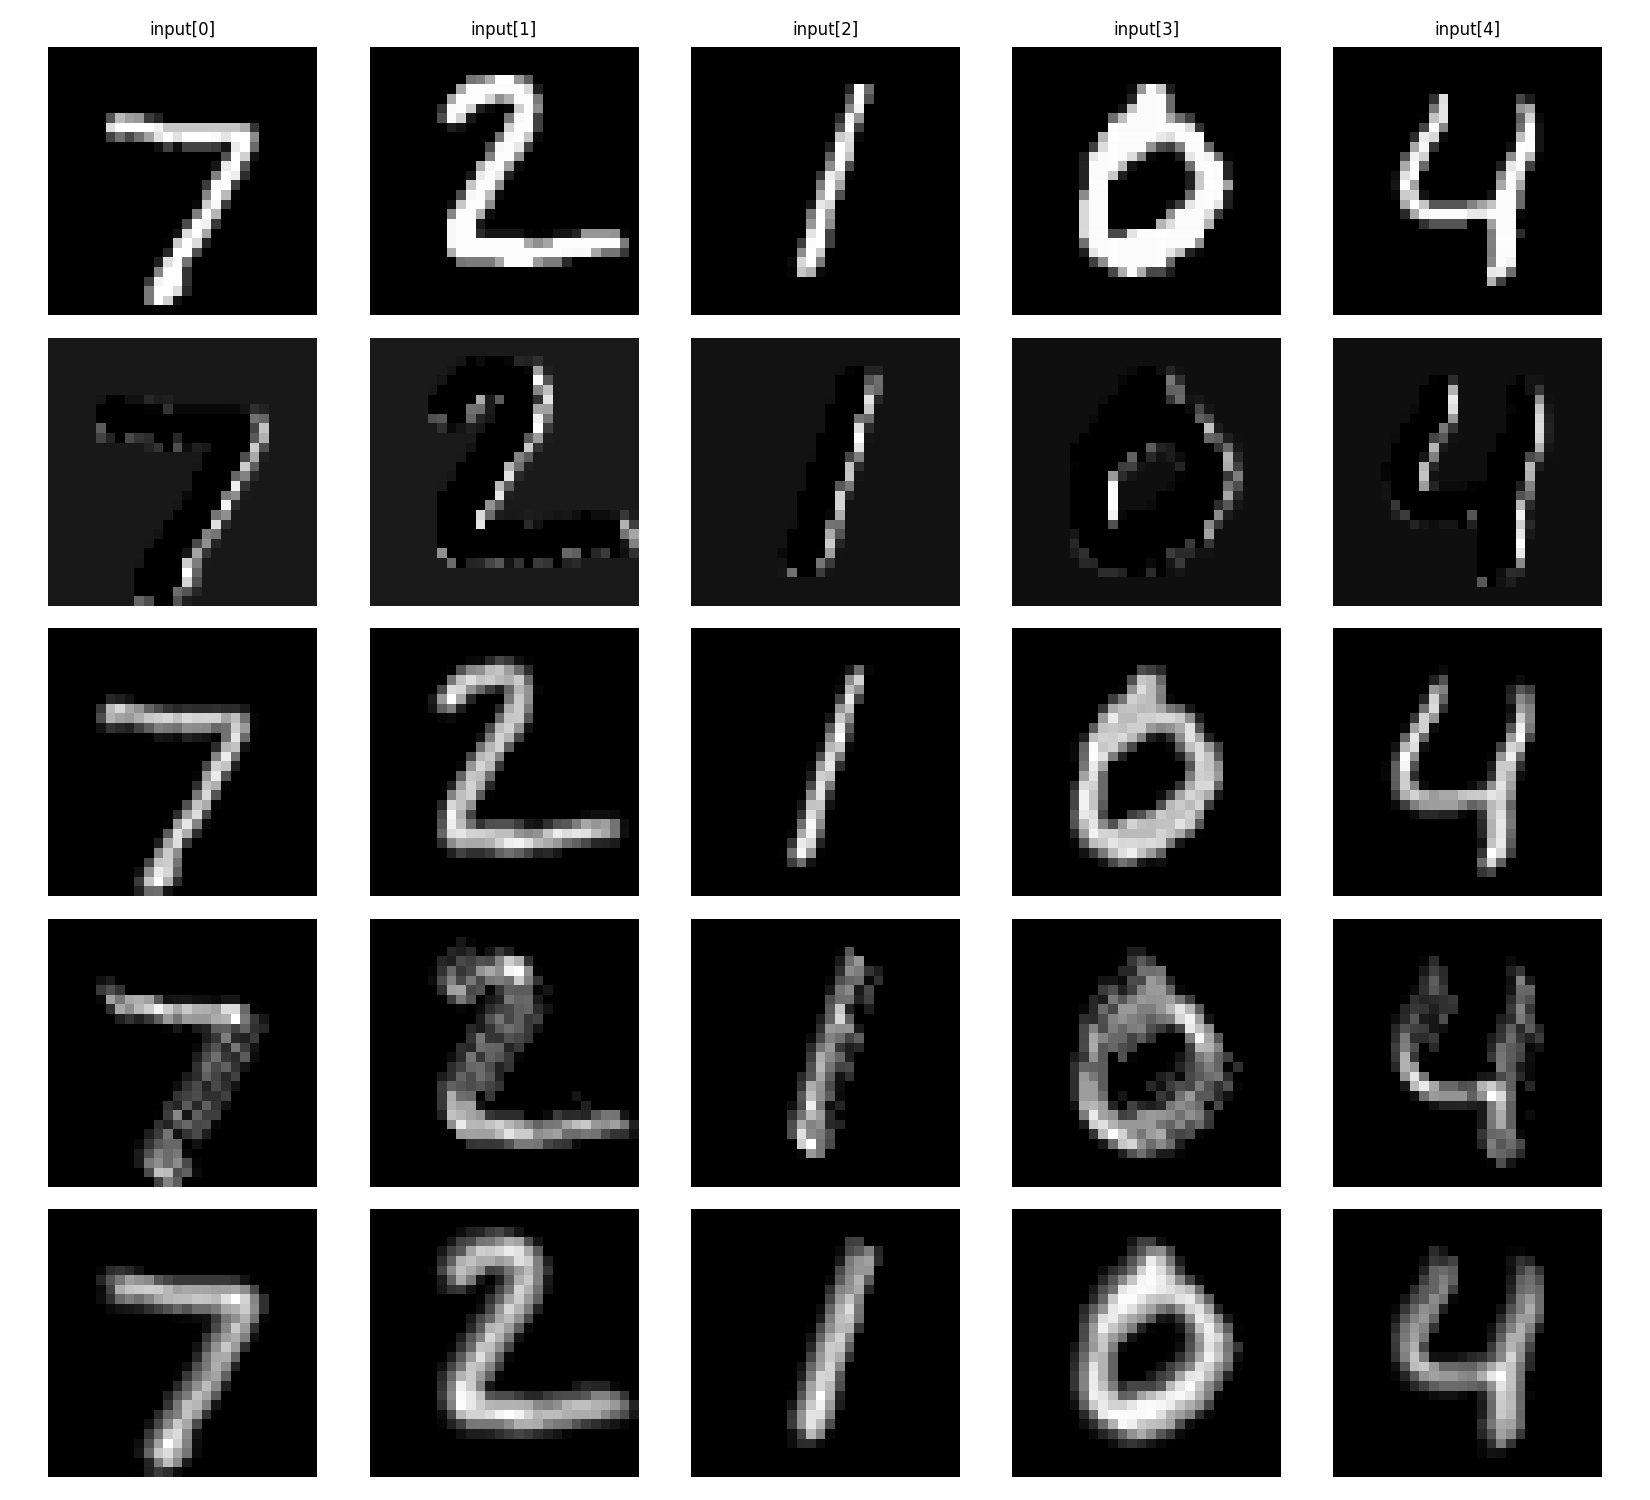
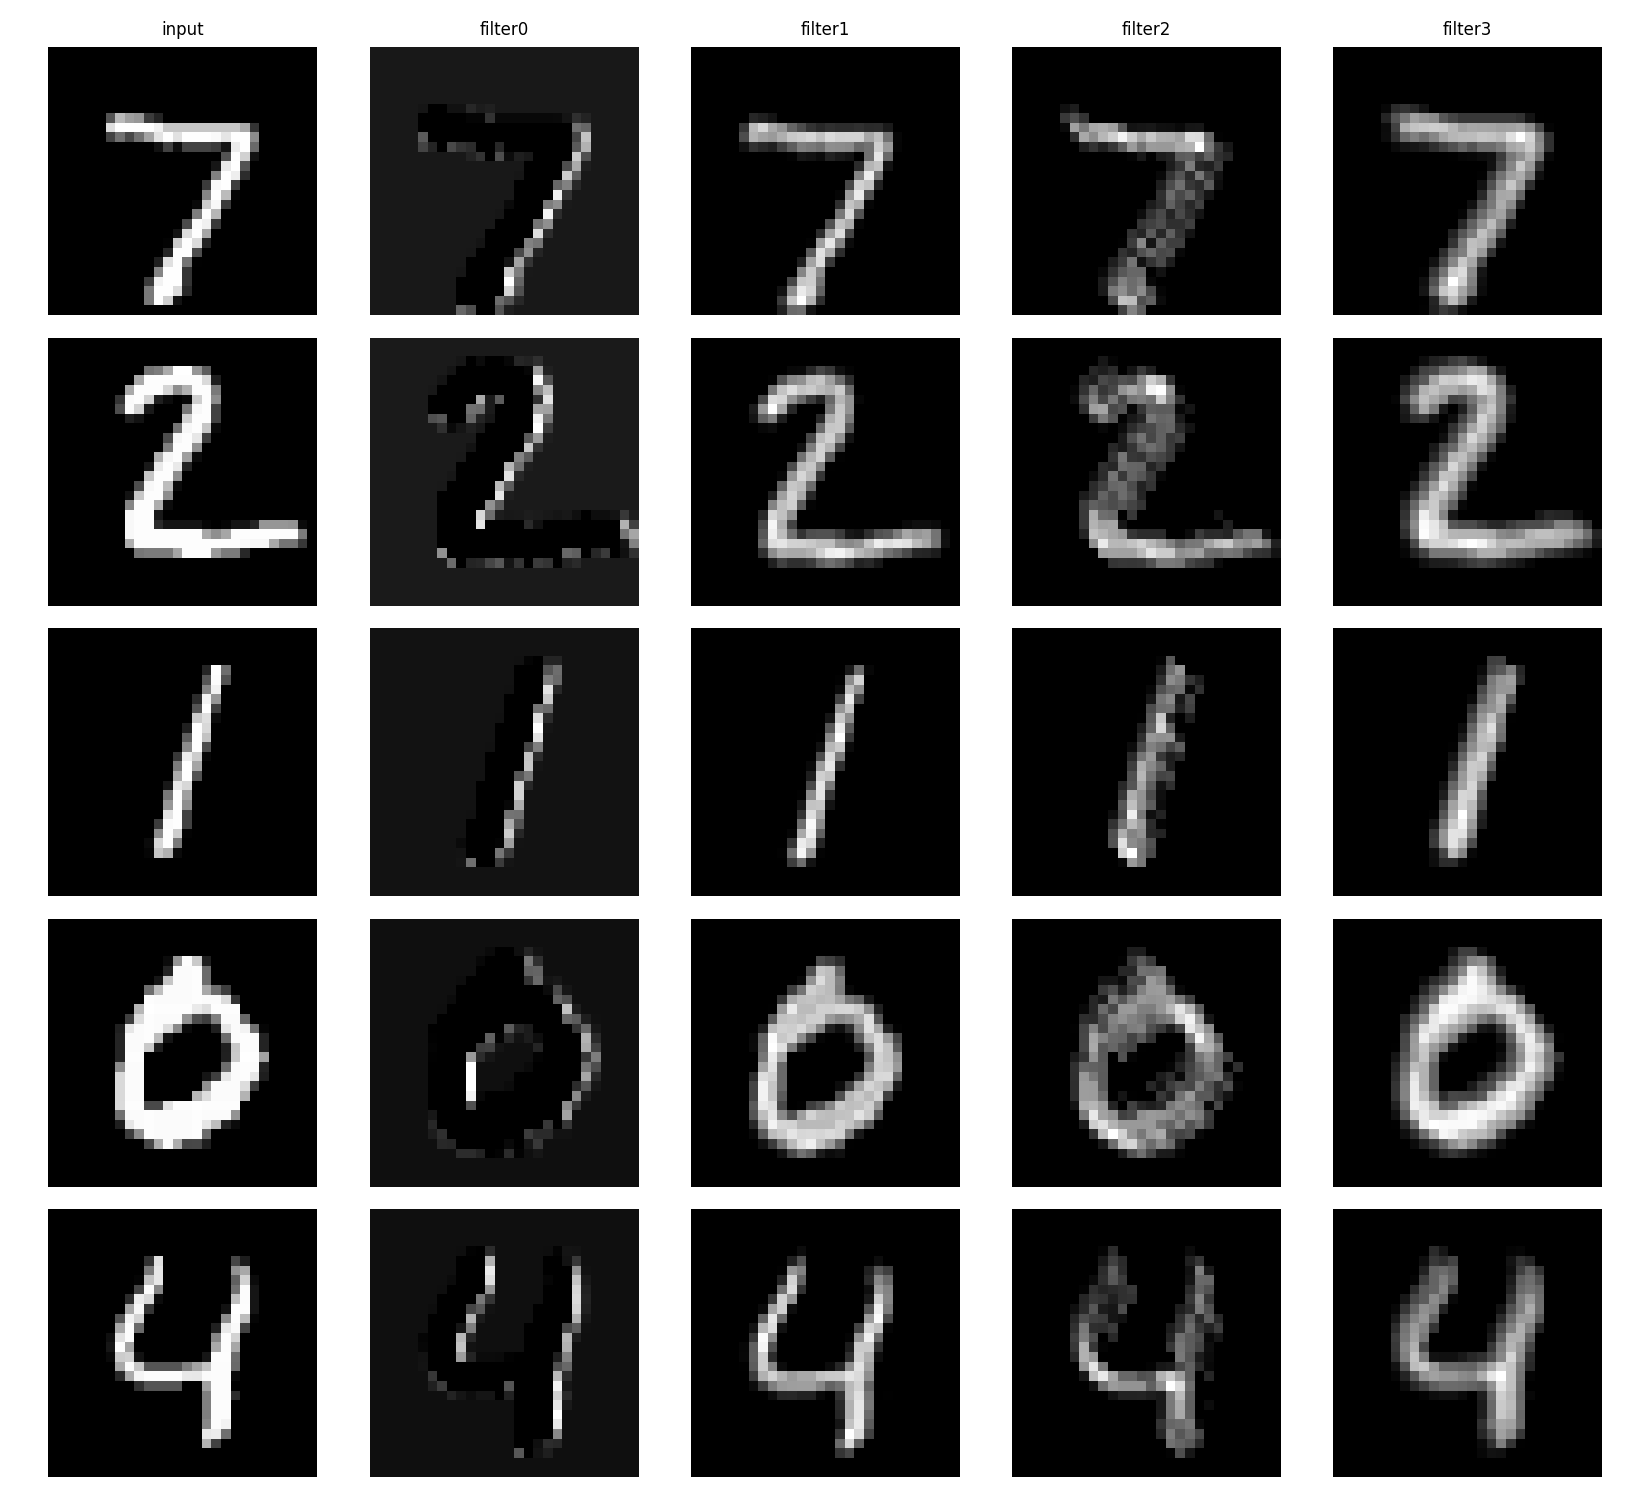
Update filter visualization

diff --git a/simple_cnn.py b/simple_cnn.py
@@ -328,28 +328,30 @@ def save_feature_maps(X, Wc, bc, path, sample_indices=None, num_samples=5, strid
 
     N = Ac.shape[0]
     F = Ac.shape[1]
-    ncols = min(ncols, N)
-    nrows = F + 1  # input + feature maps
+    ncols = F + 1  # input + feature maps
+    nrows = N
 
     fig, axes = plt.subplots(nrows, ncols, figsize=(ncols * 2.2, nrows * 2.0))
     axes = np.array(axes).reshape(nrows, ncols)
-    for c in range(ncols):
-        for r in range(nrows):
+    for r in range(nrows):
+        for c in range(ncols):
             ax = axes[r, c]
             ax.axis("off")
-            if r == 0:
-                ax.imshow(Xb[c, 0], cmap="gray", vmin=0.0, vmax=1.0)
-                ax.set_title(f"input[{sample_indices[c]}]", fontsize=8)
+            if c == 0:
+                ax.imshow(Xb[r, 0], cmap="gray", vmin=0.0, vmax=1.0)
+                ax.set_ylabel(f"input[{sample_indices[r]}]", fontsize=8)
+                if r == 0:
+                    ax.set_title("input", fontsize=8)
                 continue
-            fmap = Ac[c, r - 1]
+            fmap = Ac[r, c - 1]
             fmin, fmax = float(fmap.min()), float(fmap.max())
             if fmax > fmin:
                 img = (fmap - fmin) / (fmax - fmin)
             else:
                 img = np.zeros_like(fmap)
             ax.imshow(img, cmap="gray", vmin=0.0, vmax=1.0)
-            if c == 0:
-                ax.set_ylabel(f"f{r - 1}", fontsize=8)
+            if r == 0:
+                ax.set_title(f"filter{c - 1}", fontsize=8)
     fig.tight_layout()
     os.makedirs(os.path.dirname(path), exist_ok=True)
     fig.savefig(path, dpi=150)
